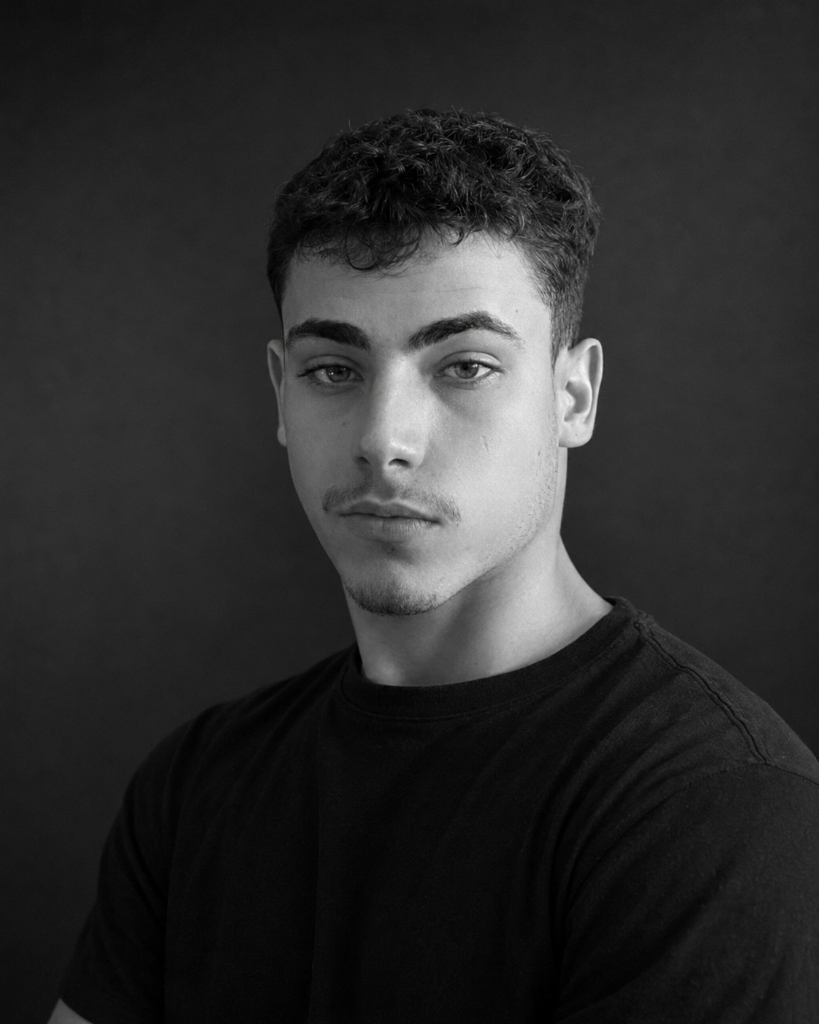
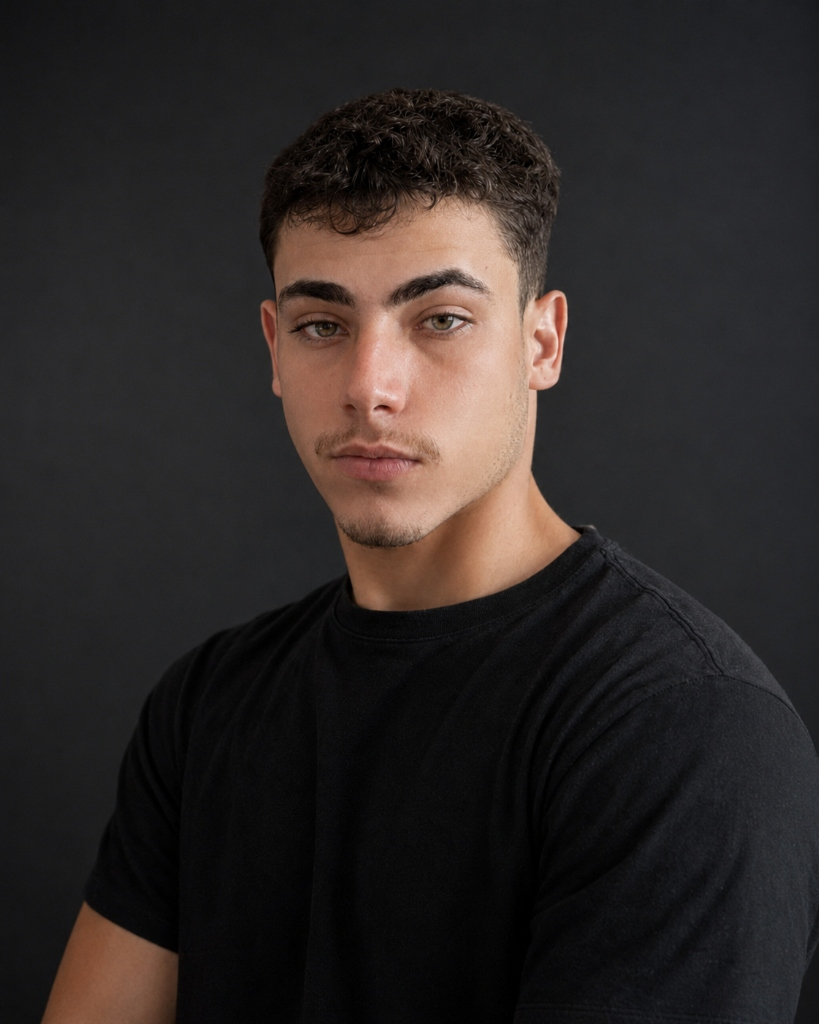
feat: use user's uploaded colored portrait as profile photo

diff --git a/src/app/page.tsx b/src/app/page.tsx
@@ -293,7 +293,7 @@ export default function Home() {
             transition={{ type: "spring", stiffness: 50, damping: 15 }}
           >
             <motion.img
-              src="/joaomarcelo-profile.jpg?v=3"
+              src="/joaomarcelo-profile.jpg?v=4"
               alt="João Marcelo"
               className="portfolio-about-image"
               whileHover={{ scale: 1.05 }}
